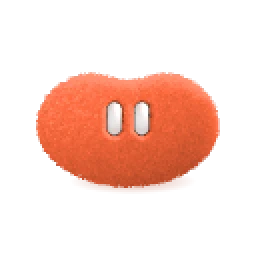
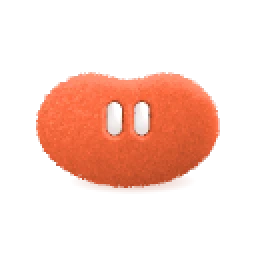
Plush: no dark line around the white bead eyes
In the light theme the edge of a white bead was darkened by the socket lip, which
read as a black outline. The bead edge now stays white (barely shaded), and the
sunk look comes from the fur around it: a wider, softer contact shade and a
lighter crease, in the fur's own color. Dark beads (dark theme) are unchanged:
every new factor is neutral for a dark bead. Light Plush renders and og.png redone
with the GPU Chrome.

Changed region(s): [[0.4062, 0.4062, 0.5938, 0.5312], [0.5312, 0.375, 0.5625, 0.4062], [0.4375, 0.375, 0.4688, 0.4062]]

diff --git a/src/ui/3d/furCoat.ts b/src/ui/3d/furCoat.ts
@@ -285,6 +285,8 @@ void main() {
 
   // Around a socket: a crease where the pile is pressed down, and light on its rolled lip.
   float upper = 0., crease = 0., pileRelief = 0., contact = 0., lipLight = 0.;
+  // 0 for a dark bead (as ported), 1 for a white one
+  float lightBeadK = smoothstep(.3, .7, max(uInk.r, max(uInk.g, uInk.b)));
   if (d < 3.7) {
     vec2 texel = 1. / vec2(${SOCKET_W}., ${SOCKET_H}.);
     vec2 g = vec2(texture(uSock, uv + vec2(texel.x, 0)).r - texture(uSock, uv - vec2(texel.x, 0)).r,
@@ -297,13 +299,14 @@ void main() {
     if (pass == STRAND) {
       pileRelief = ((tip - .46) * .16 + (fibers - .48) * .11) * (1. - smoothstep(1.5, 3.65, d));
     }
-    contact = (1. - smoothstep(-.04, .38, d)) * mix(.35, 1., buried);
+    // A white bead (light theme): no dark line at its contour; the fur around it is shaded in a wider, softer ring.
+    contact = (1. - smoothstep(-.04, mix(.38, 1.9, lightBeadK), d)) * mix(.35, 1., buried) * mix(1., .55, lightBeadK);
     float lip = smoothstep(.03, .49, d) * (1. - smoothstep(1.10, 3.65, d));
     float gathered = clamp(.22 - .52 * outward.x + 1.14 * outward.y, 0., 1.22);
     float tipLight = .14 + .22 * fibers;
     lipLight = tipLight * gathered * lip * mix(.40, 1., local.z);
   }
-  float occlusion = crease * (.76 + .18 * upper);
+  float occlusion = crease * (.76 + .18 * upper) * mix(1., .62, lightBeadK);
   float fiberLight = (sheen + .46 * grazing * backlit * rimExposure) * (1. - crease) + lipLight;
   diffuseLevel = (diffuseLevel * (1. - .48 * occlusion) + pileRelief) * (1. - (.36 + .04 * upper) * contact);
 
@@ -334,12 +337,12 @@ void main() {
     float coatBounce = .003 + .018 * pow(1. - clamp(beadNormal.z, 0., 1.), 1.6);
     float inkValue = max(uInk.r, max(uInk.g, uInk.b));
     // The bead takes the eye color of the theme (white in light, black in dark), like the eyes of the other styles.
-    // A dark bead: as ported. A light bead: a porcelain dome kept a shade under its color, darker where the lip of
-    // the socket shades its edge, so that the reflection and the socket still read on it.
+    // A dark bead: as ported. A light bead: a porcelain dome kept a shade under its color so the reflection still
+    // reads, its edge white or barely shaded (no dark line): the sunk look comes from the soft shade of the fur.
     vec3 darkBead = uInk * sqrt(inkValue) * (.40 + .24 * beadNormal.z + .24 * inkValue) + uColor * coatBounce;
-    float rimShade = mix(.70, 1., smoothstep(-.05, 1.1, -d));
-    vec3 lightBead = uInk * (.80 + .13 * beadNormal.z) * rimShade + uColor * coatBounce * 3.;
-    float light = smoothstep(.3, .7, inkValue);
+    float rimShade = mix(.94, 1., smoothstep(-.05, 1.1, -d));
+    vec3 lightBead = uInk * (.86 + .10 * beadNormal.z) * rimShade + uColor * coatBounce * 3.;
+    float light = lightBeadK;
     vec3 bead = mix(darkBead, lightBead, light);
     vec3 reflection = mix(vec3(1.), uColor, .28) * stripLight + mix(vec3(1.), uColor, .72) * sideLight;
     bead += reflection * smoothstep(-.12, .55, -d) * mix(1., .8, light);
